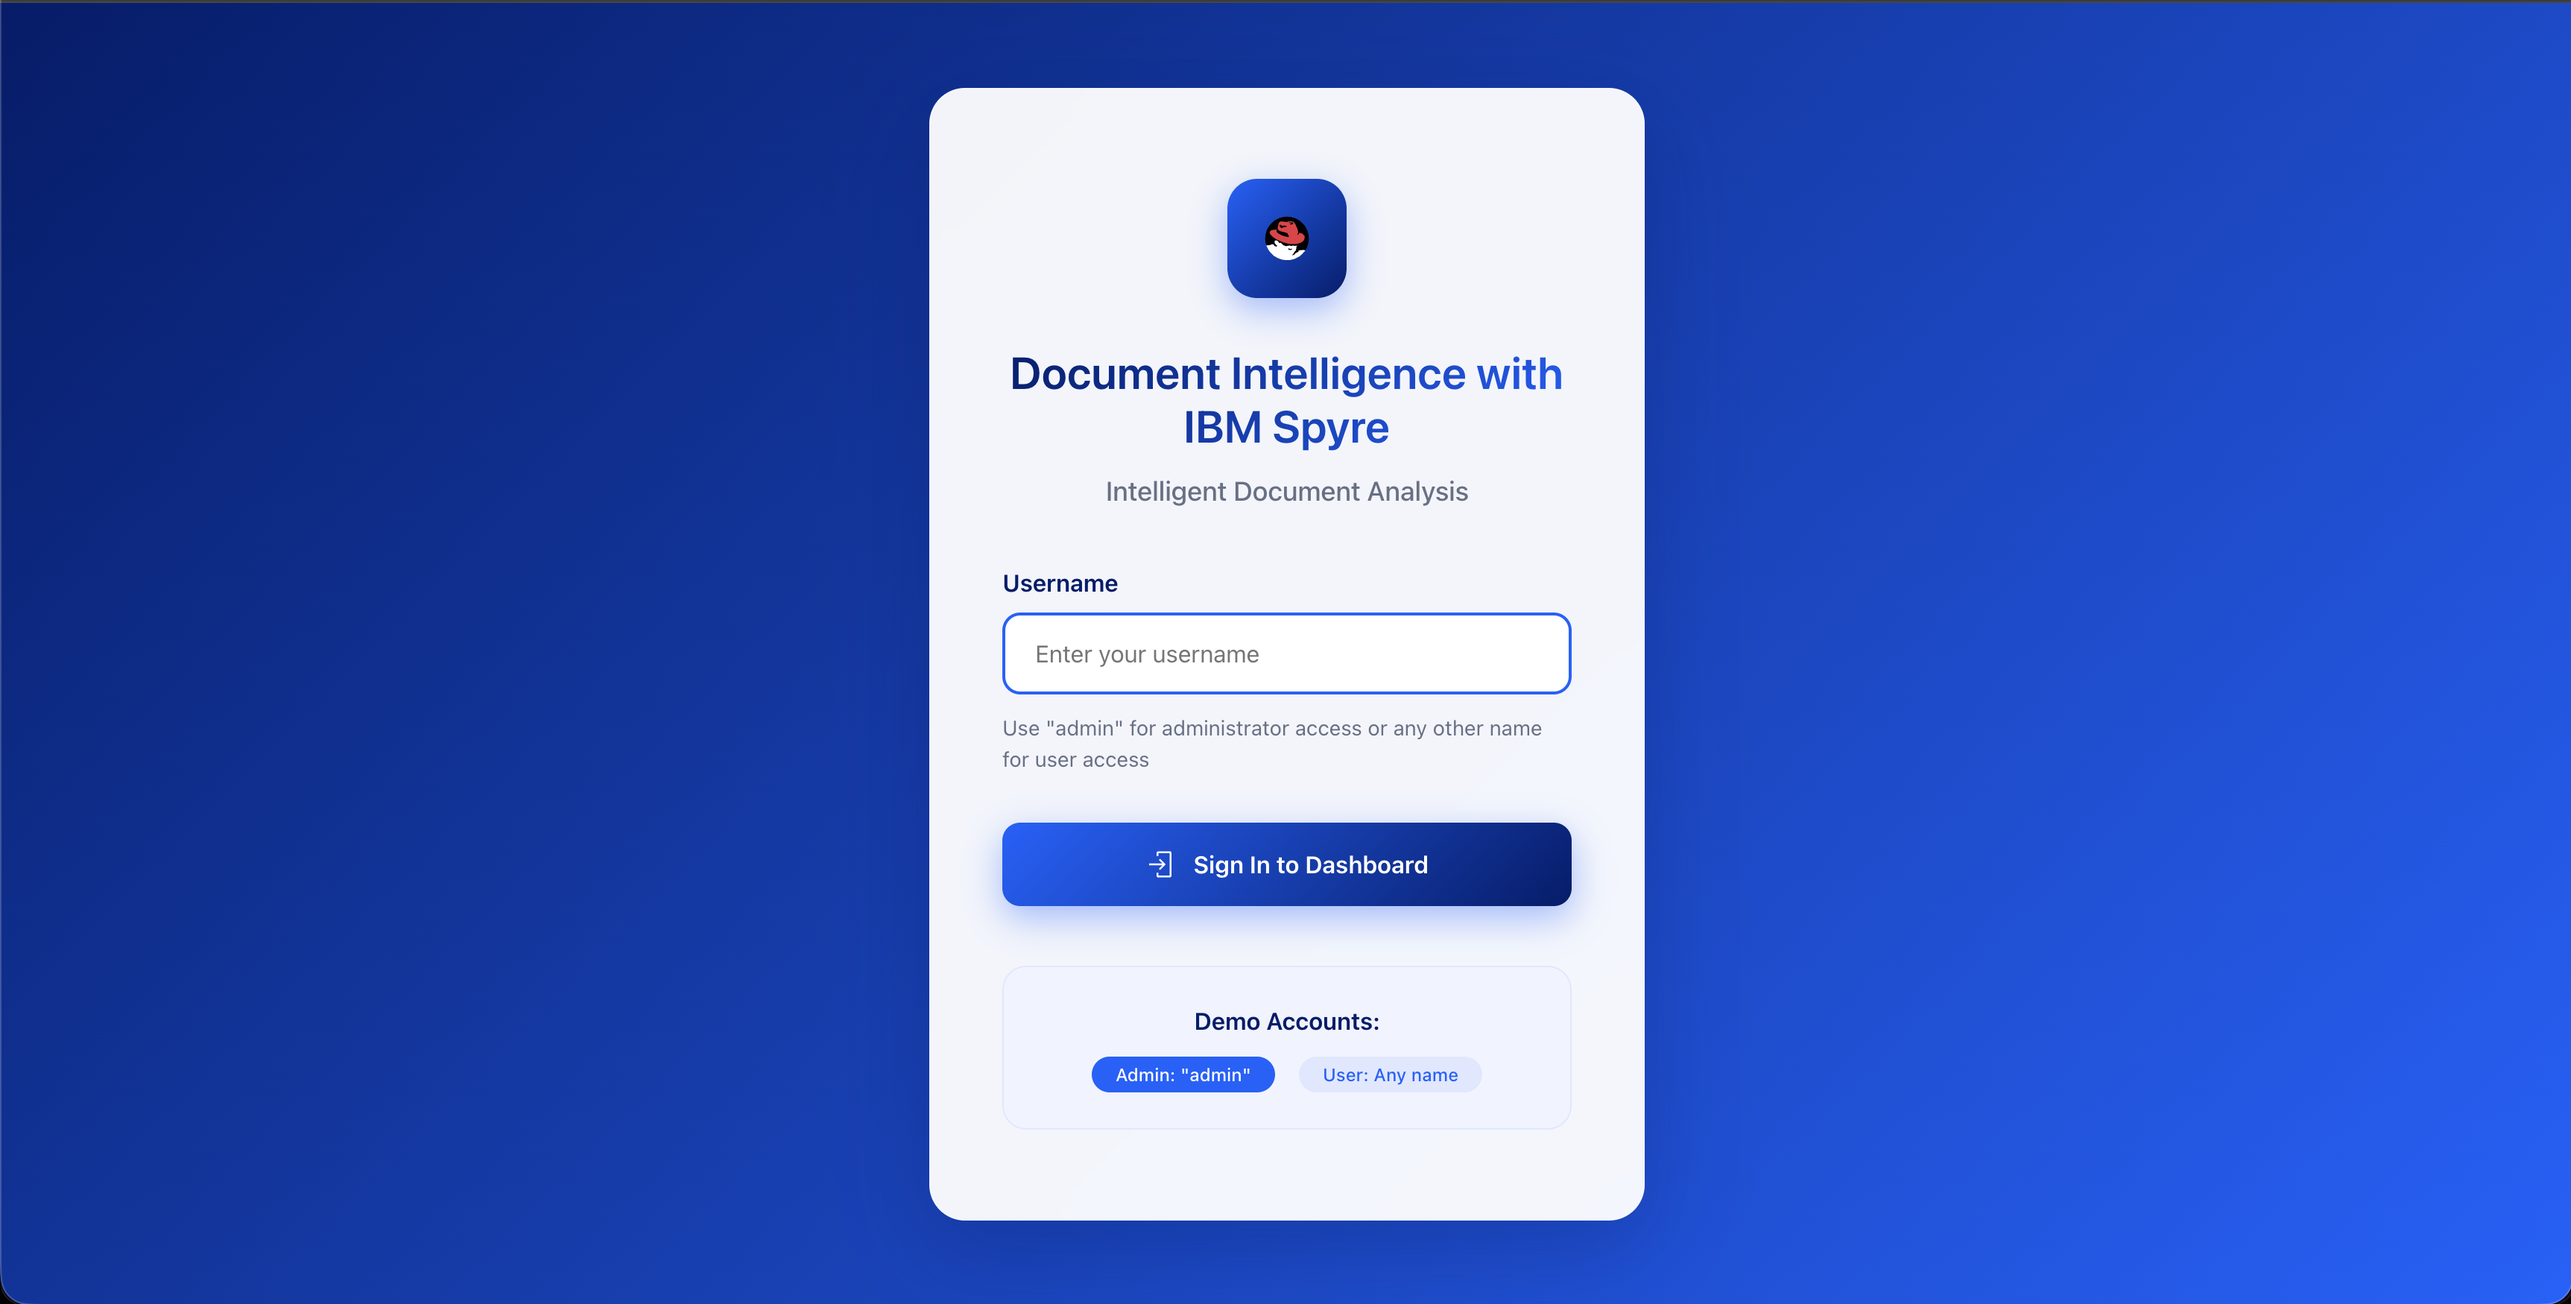
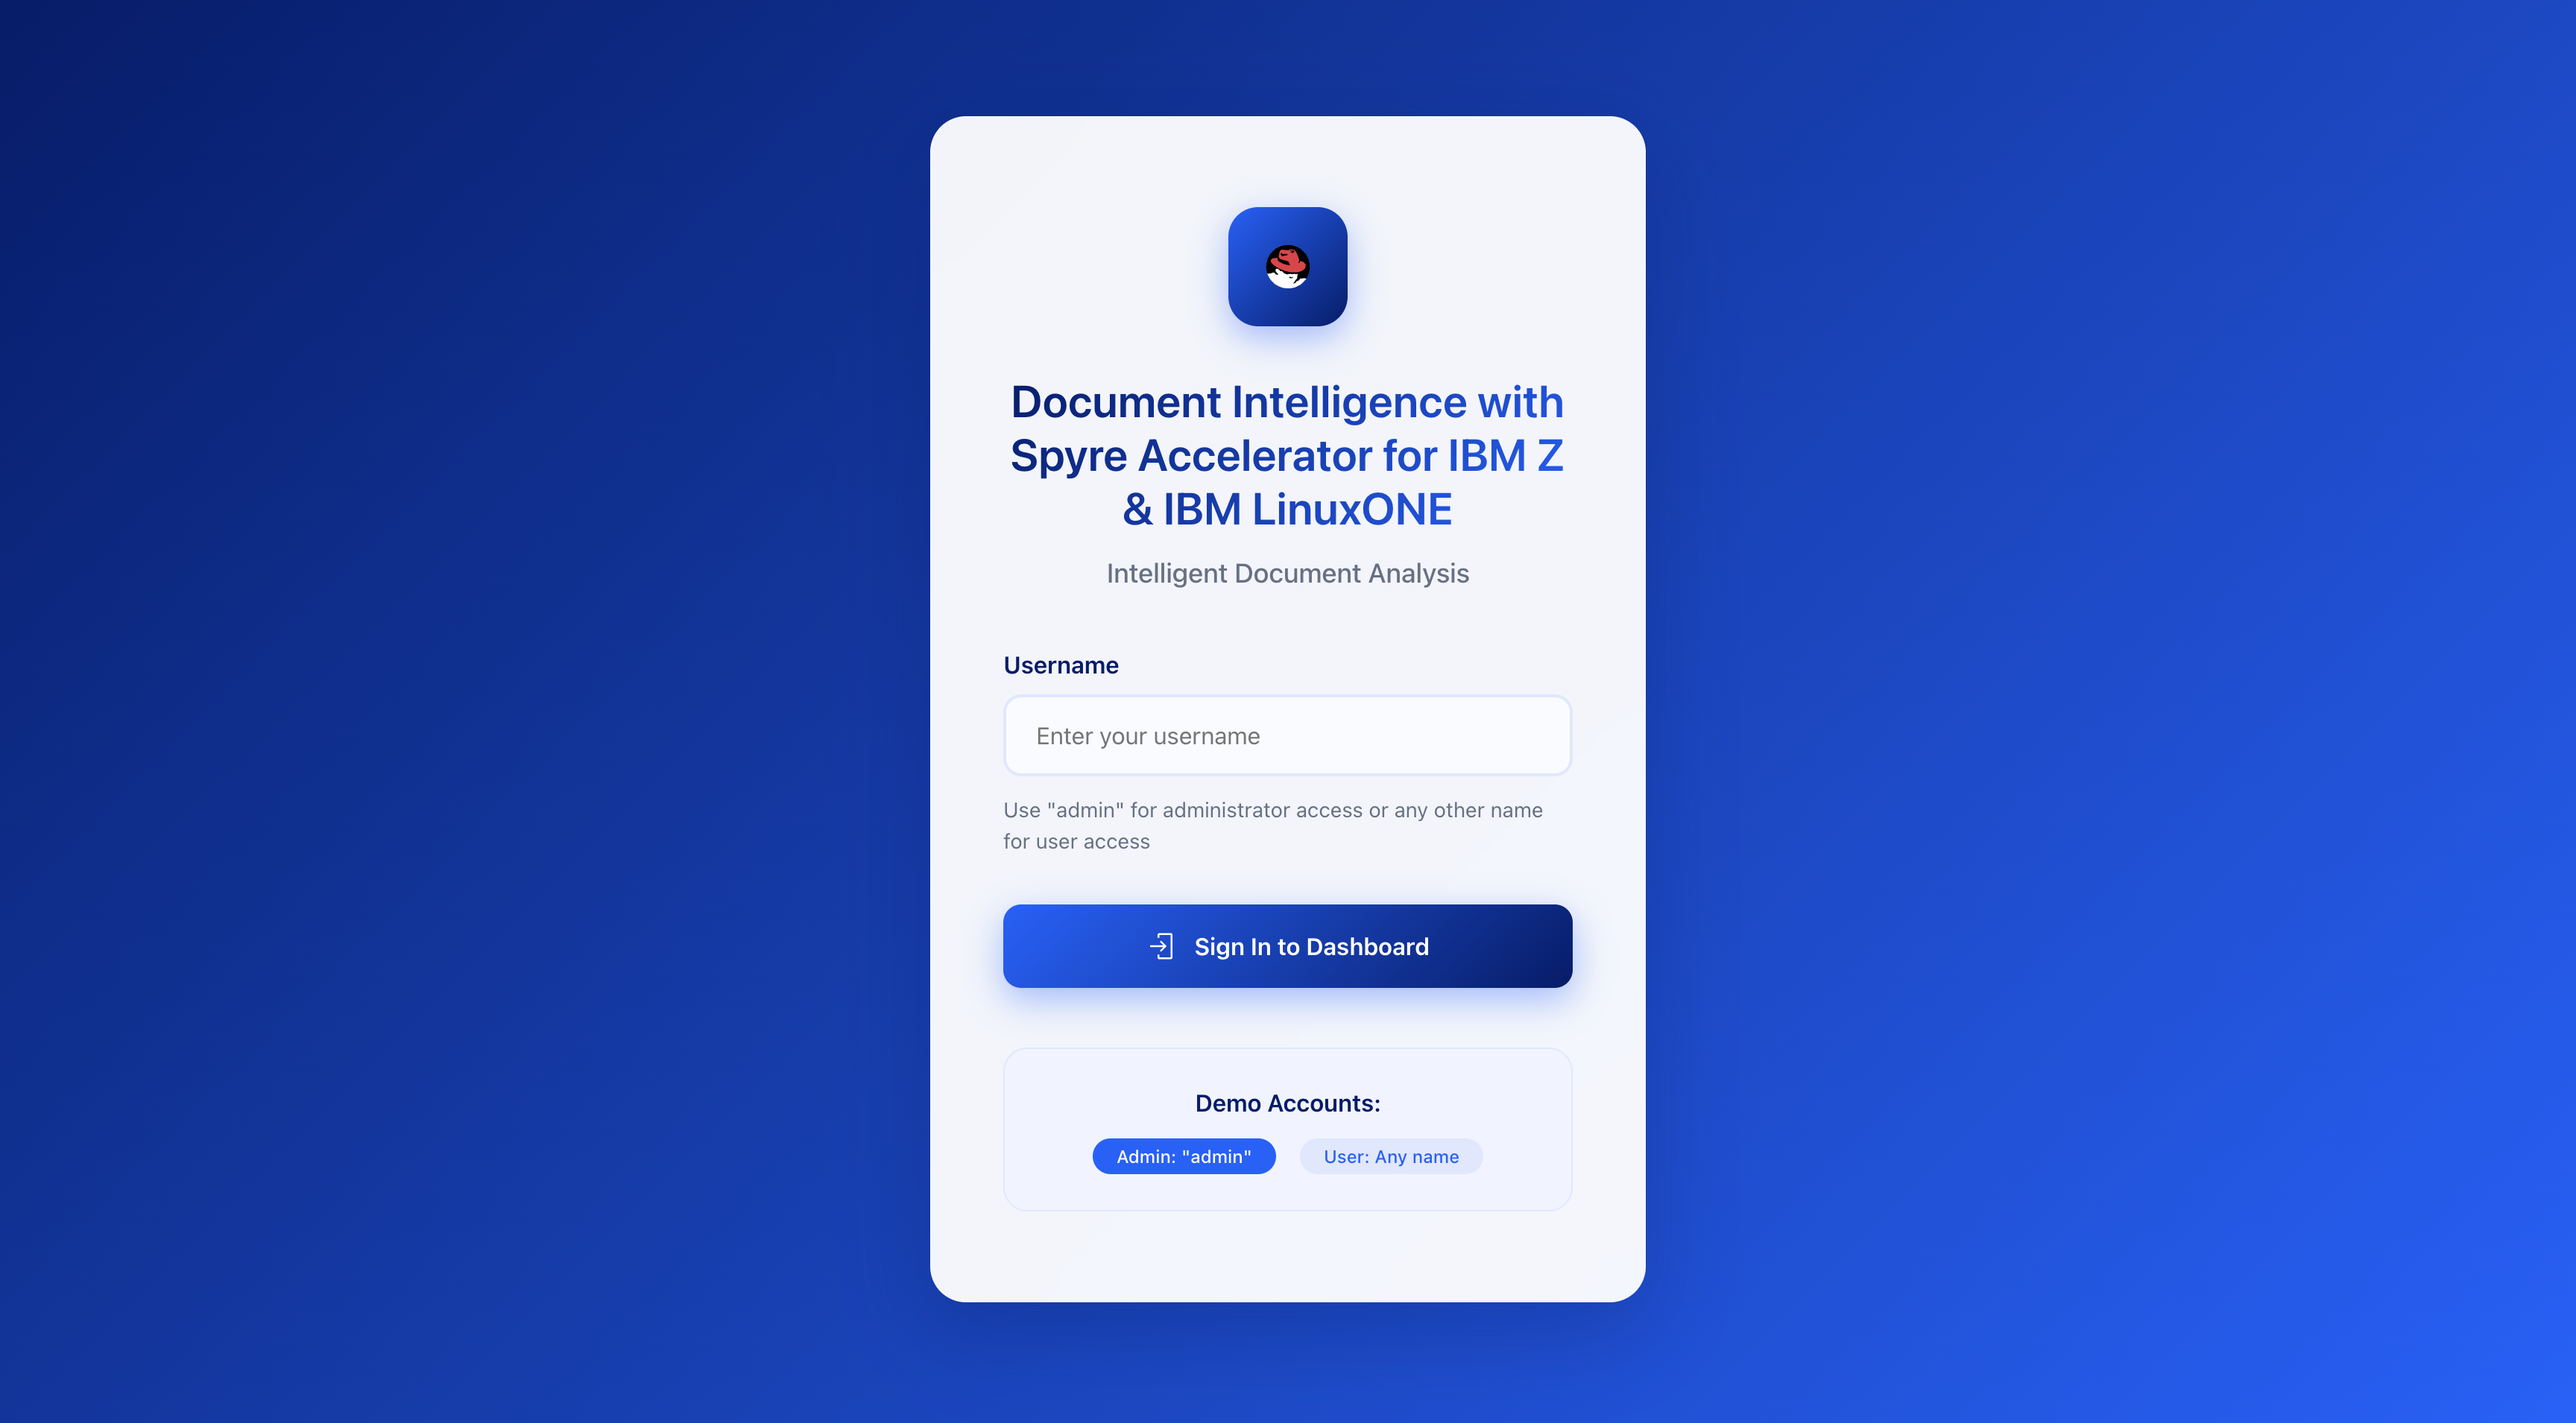
ui updates

diff --git a/frontend/src/components/DocumentTab.js b/frontend/src/components/DocumentTab.js
@@ -306,7 +306,6 @@ const stopStreaming = async (tempDocId) => {
         formData.append('user_id', currentUser.username);
 
         const apiUrl = process.env.REACT_APP_API_BASE_URL  
-       // const streamUrl = process.env.REACT_APP_API_BASE_URL || 'http://129.40.90.163:8002/upload-files';
         
         setStreamingStatus(prev => ({ ...prev, [tempDocId]: 'Uploading file to server...' }));
         setStreamingProgress(prev => ({ ...prev, [tempDocId]: 10 }));
@@ -582,7 +581,6 @@ const stopStreaming = async (tempDocId) => {
         }
 
         // Call server API to delete file
-        //const deleteUrl = `http://129.40.90.163:8002/delete-files?user_id=${currentUser.username}&filename=${encodeURIComponent(docName)}`;
         const apiUrl = process.env.REACT_APP_API_BASE_URL
 
         const response = await fetch(`${apiUrl}/delete-file?user_id=${currentUser.username}&filename=${encodeURIComponent(docName)}`, {
@@ -2496,6 +2494,75 @@ const stopStreaming = async (tempDocId) => {
                       });
                     })()}
                   </div>
+                </div>
+                   {/* Download Summary Buttons */}
+                <div style={{
+                  display: 'flex',
+                  gap: '0.75rem',
+                  marginTop: '1rem',
+                  flexWrap: 'wrap'
+                }}>
+                  <button
+                    onClick={() => downloadSummary(selectedDocForDetails, 'txt')}
+                    style={{
+                      background: 'white',
+                      border: '2px solid #e5e7eb',
+                      padding: '0.625rem 1.25rem',
+                      borderRadius: '8px',
+                      cursor: 'pointer',
+                      fontSize: '0.875rem',
+                      color: '#374151',
+                      fontWeight: 600,
+                      display: 'flex',
+                      alignItems: 'center',
+                      gap: '0.5rem',
+                      transition: 'all 0.2s'
+                    }}
+                    onMouseOver={(e) => {
+                      e.currentTarget.style.borderColor = '#0f62fe';
+                      e.currentTarget.style.color = '#0f62fe';
+                      e.currentTarget.style.transform = 'translateY(-2px)';
+                      e.currentTarget.style.boxShadow = '0 4px 6px rgba(0, 0, 0, 0.1)';
+                    }}
+                    onMouseOut={(e) => {
+                      e.currentTarget.style.borderColor = '#e5e7eb';
+                      e.currentTarget.style.color = '#374151';
+                      e.currentTarget.style.transform = 'translateY(0)';
+                      e.currentTarget.style.boxShadow = 'none';
+                    }}
+                  >
+                    <Download size={16} />
+                    Download as TXT
+                  </button>
+                  <button
+                    onClick={() => downloadSummary(selectedDocForDetails, 'pdf')}
+                    style={{
+                      background: 'linear-gradient(135deg, #0f62fe 0%, #0353e9 100%)',
+                      border: 'none',
+                      padding: '0.625rem 1.25rem',
+                      borderRadius: '8px',
+                      cursor: 'pointer',
+                      fontSize: '0.875rem',
+                      color: 'white',
+                      fontWeight: 600,
+                      display: 'flex',
+                      alignItems: 'center',
+                      gap: '0.5rem',
+                      transition: 'all 0.2s',
+                      boxShadow: '0 4px 6px rgba(15, 98, 254, 0.3)'
+                    }}
+                    onMouseOver={(e) => {
+                      e.currentTarget.style.transform = 'translateY(-2px)';
+                      e.currentTarget.style.boxShadow = '0 6px 12px rgba(15, 98, 254, 0.4)';
+                    }}
+                    onMouseOut={(e) => {
+                      e.currentTarget.style.transform = 'translateY(0)';
+                      e.currentTarget.style.boxShadow = '0 4px 6px rgba(15, 98, 254, 0.3)';
+                    }}
+                  >
+                    <Download size={16} />
+                    Download as PDF
+                  </button>
                 </div>
               </div>
 

diff --git a/frontend/src/components/Header.js b/frontend/src/components/Header.js
@@ -32,7 +32,6 @@ useEffect(() => {
         try {
                 const apiUrl = process.env.REACT_APP_API_BASE_URL  
                 const res = await fetch(`${apiUrl}/rhaiis/health`,{
-                // const res = await fetch("http://129.40.90.163:8002/rhaiis/health", {
                 method: "GET",
                 headers: { "accept": "application/json" }
             });
@@ -122,7 +121,7 @@ useEffect(() => {
                                         </div>
                                         <div>
                                             <div style={{ display: 'flex', alignItems: 'center', gap: '0.5rem', marginBottom: '0.25rem' }}>
-                                                <h1 style={{ color: 'white', fontSize: '1.25rem', fontWeight: 500, margin: 0 }}>Document Intelligence</h1>
+                                                <h1 style={{ color: 'white', fontSize: '1.25rem', fontWeight: 500, margin: 0 }}>Document Intelligence with Spyre Accelerator for IBM Z & IBM LinuxONE</h1>
                                             </div>
                                             <p style={{ color: '#c6c6c6', fontSize: '0.875rem', display: 'flex', alignItems: 'center', gap: '0.5rem', margin: 0 }}>
                                                 <span style={{ width: '18px', height: '18px', color: '#0f62fe' }}><Icons.Sparkles /></span>

diff --git a/frontend/src/components/Dashboard.js b/frontend/src/components/Dashboard.js
@@ -294,7 +294,7 @@ const processUserDocuments = (userDocuments, username) => {
             WebkitBackgroundClip: 'text',
             WebkitTextFillColor: 'transparent'
           }}>
-            Document Intelligence with IBM Spyre
+           Document Intelligence with Spyre Accelerator for IBM Z & IBM LinuxONE
           </h1>
           <p style={{
             fontSize: '18px',

diff --git a/frontend/src/components/AIChatTab.js b/frontend/src/components/AIChatTab.js
@@ -213,7 +213,6 @@ const AIChat = ({ documents, currentUser }) => {
       
       const apiUrl = process.env.REACT_APP_API_BASE_URL  
       const response = await fetch(`${apiUrl}/ask-query`,{
-      //const response = await fetch('http://129.40.90.163:8002/ask-query', {
         method: 'POST',
         body: formData,
         signal: abortControllerRef.current.signal
